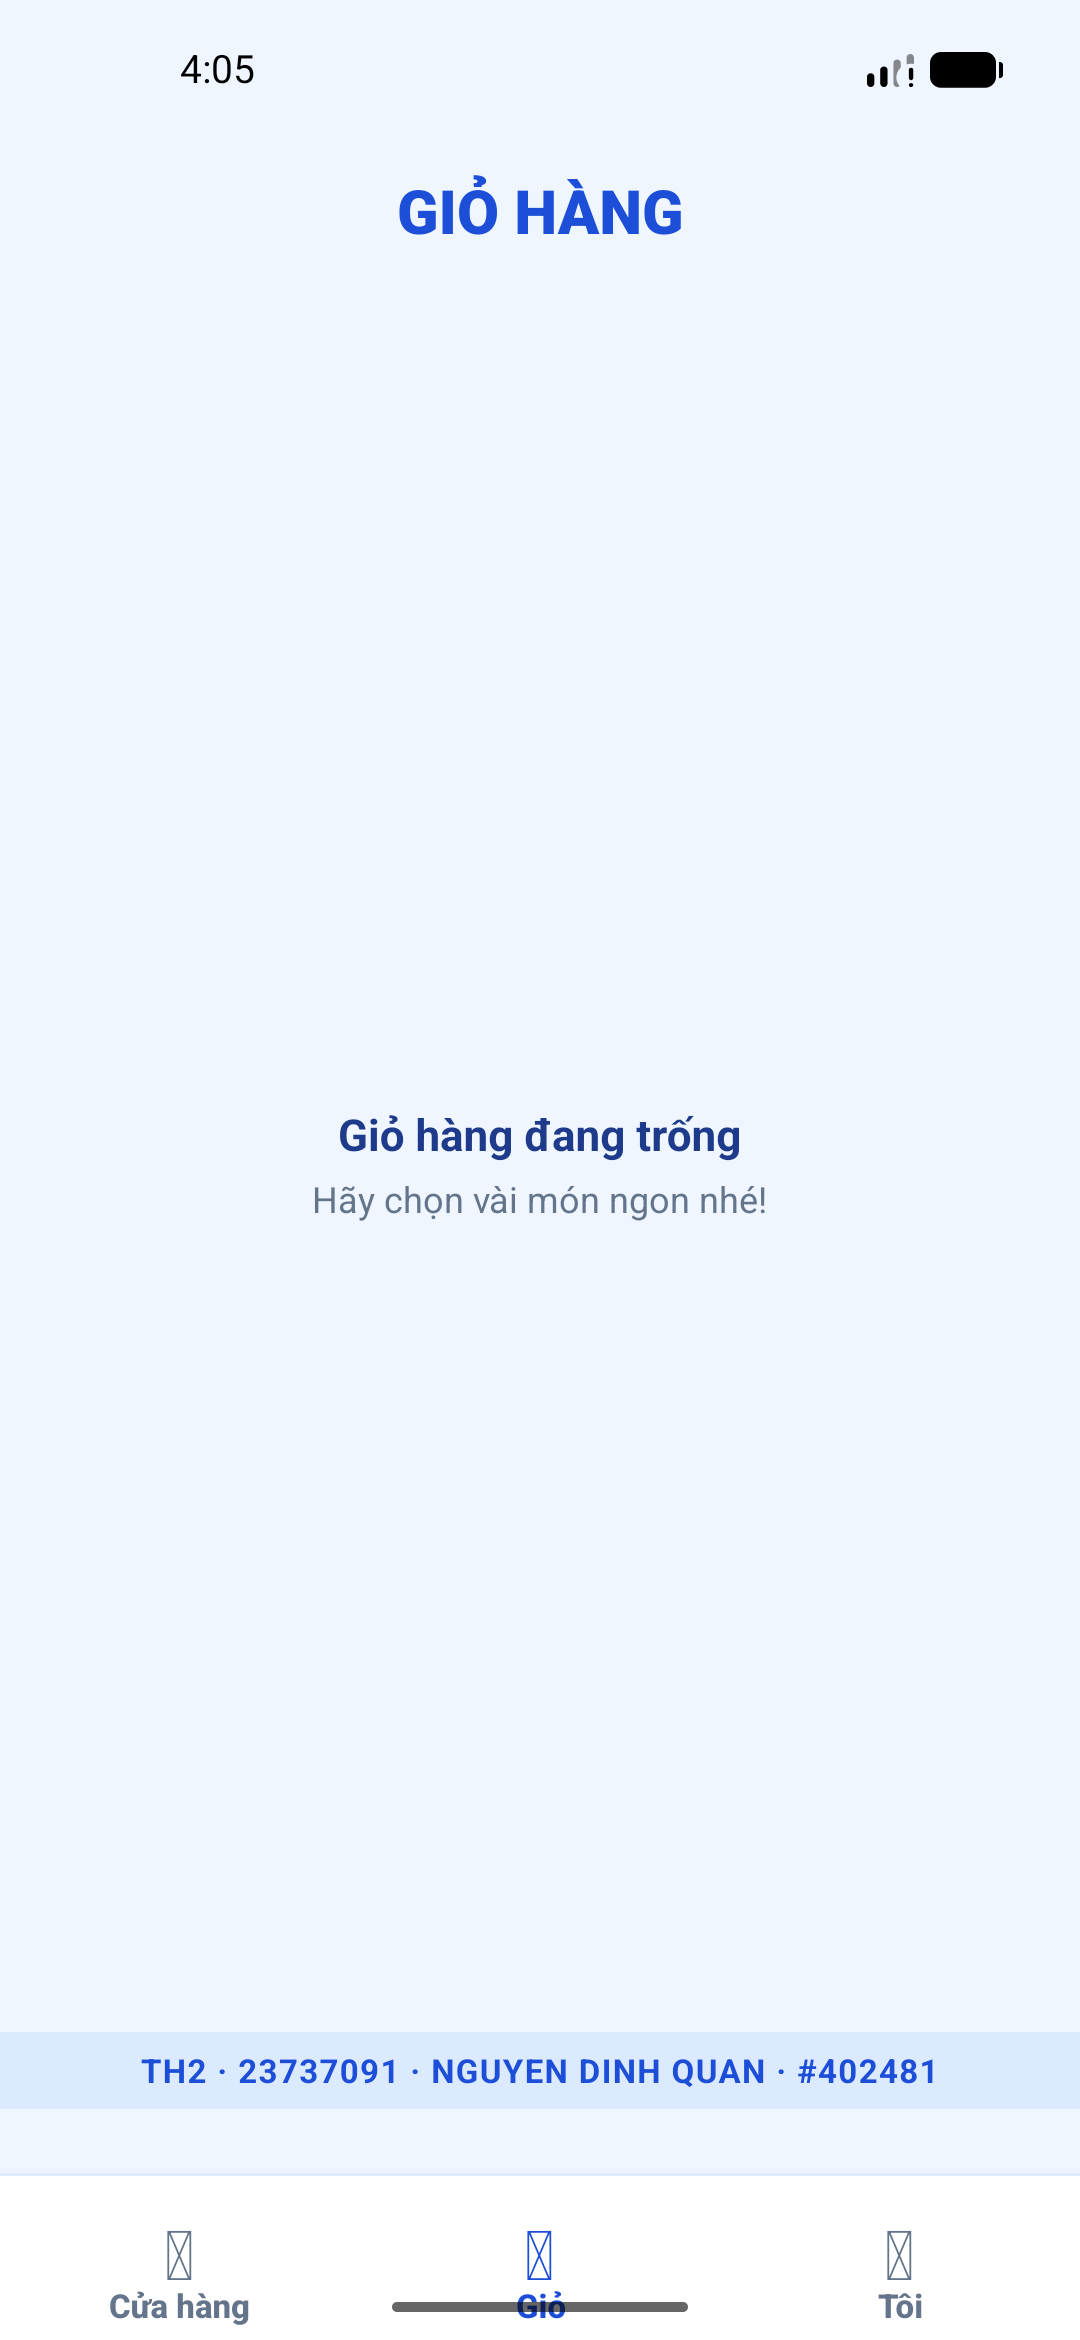
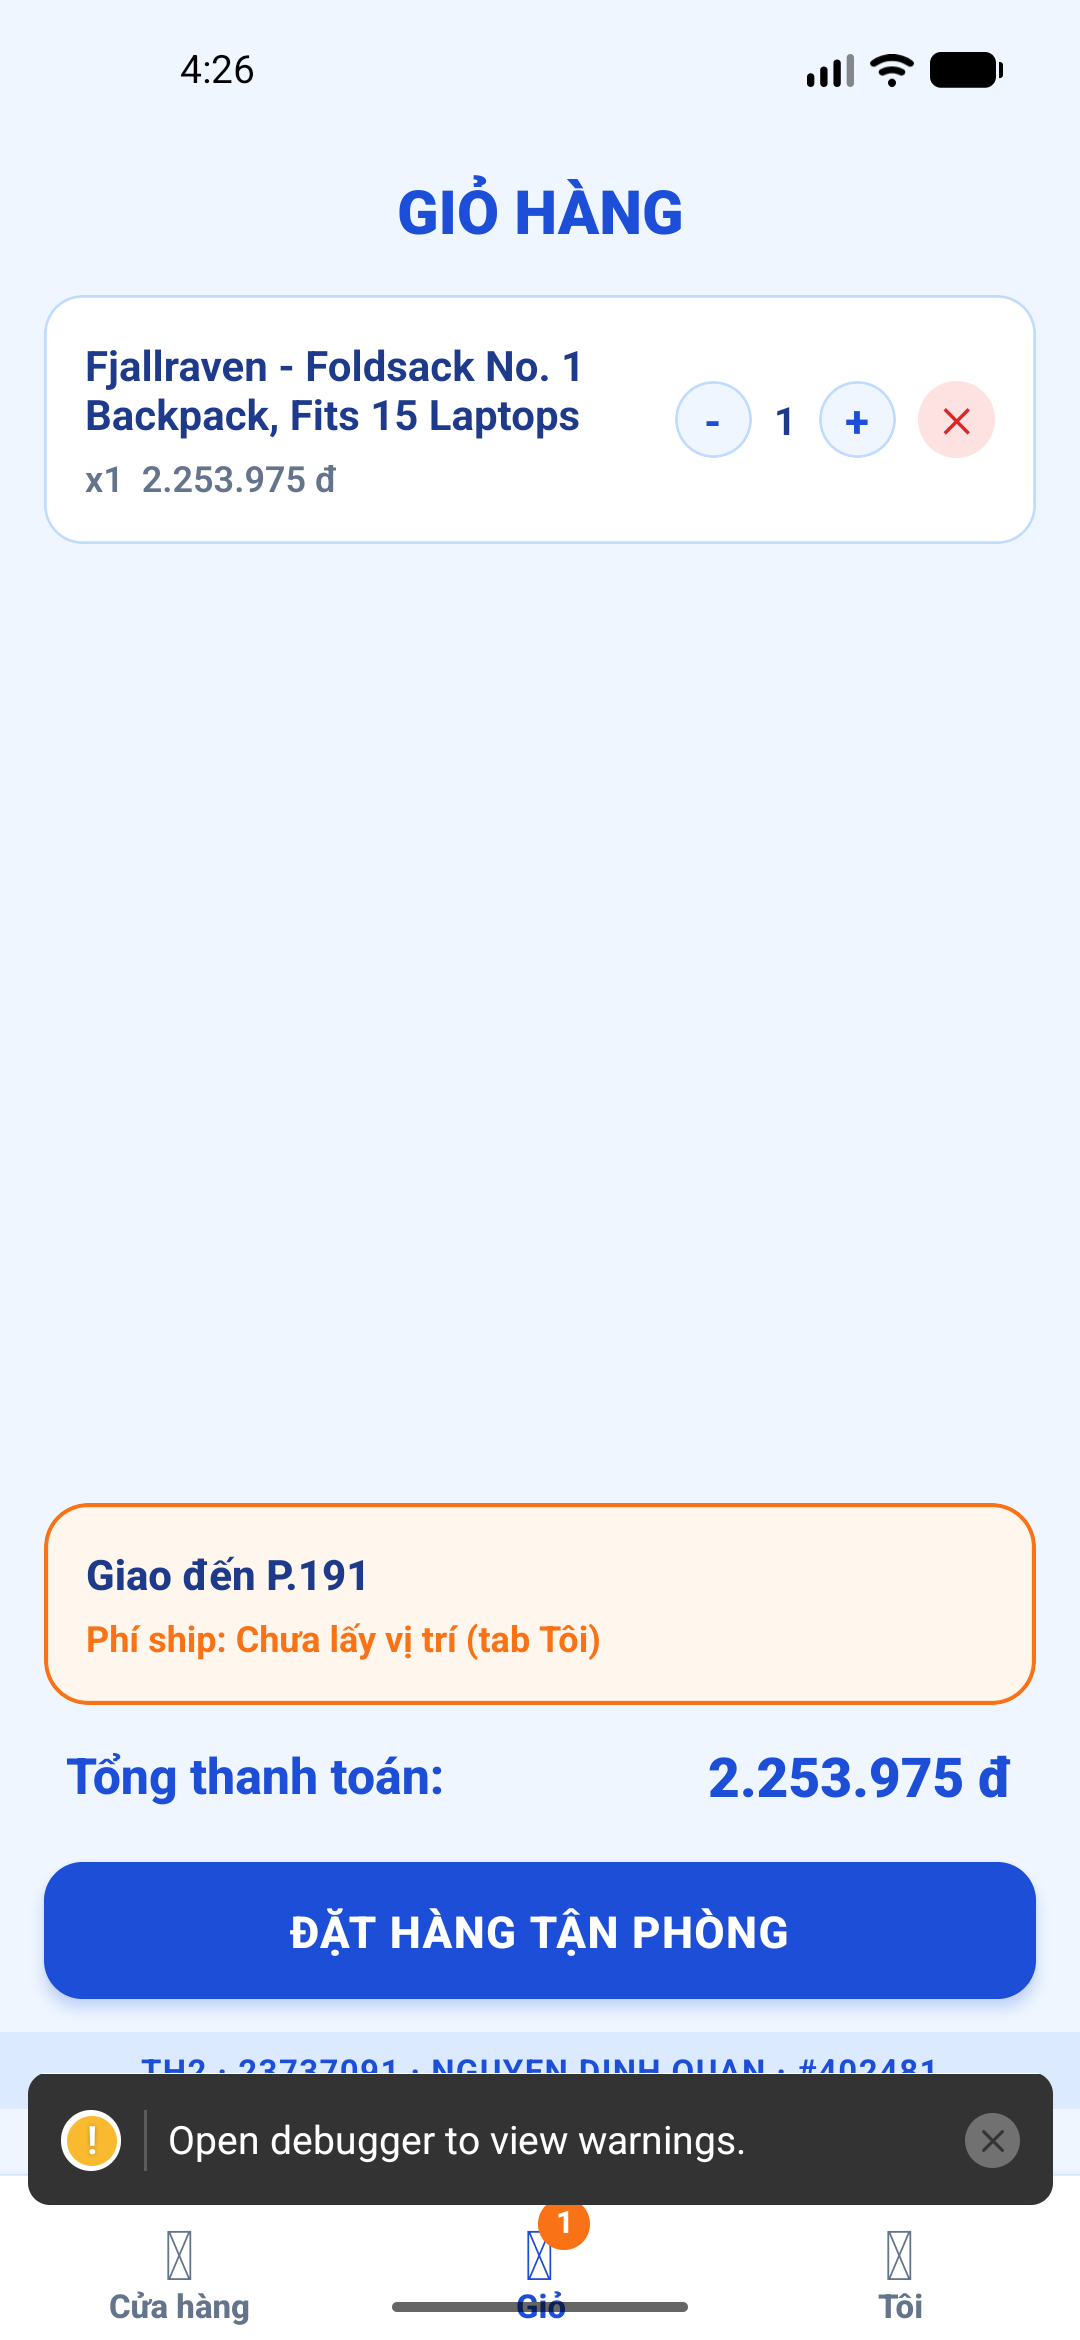
23737091 TH2: Cap nhat fakestoreapi va xu ly trang thai loi mang tren HomeScreen

diff --git a/src/screens/HomeScreen.tsx b/src/screens/HomeScreen.tsx
@@ -35,13 +35,17 @@ export const HomeScreen = ({ navigation }: any) => {
         data: products,
         isLoading,
         isError,
+        error,
         refetch,
         isRefetching,
     } = useQuery<Product[]>({
         queryKey: ['products'],
         queryFn: getProducts,
         staleTime: STALE_TIME_MS,
+        retry: 1,
     });
+
+    const hasError = isError || (!!error && !isRefetching);
 
     const filteredProducts = useMemo(() => {
         if (!products) return [];
@@ -91,7 +95,7 @@ export const HomeScreen = ({ navigation }: any) => {
                         <ActivityIndicator size="large" color={COLORS.primary} />
                         <Text style={styles.loadingText}>Đang tải món...</Text>
                     </View>
-                ) : isError ? (
+                ) : hasError ? (
                     <View style={styles.centerContainer}>
                         <Text style={styles.errorMssv}>{STUDENT.mssv}</Text>
                         <Text style={styles.errorText}>Không tải được dữ liệu món.</Text>
@@ -104,6 +108,7 @@ export const HomeScreen = ({ navigation }: any) => {
                         <FlashList
                             data={filteredProducts}
                             numColumns={2}
+                            {...({ estimatedItemSize: 220 } as any)}
                             keyExtractor={(item: Product) => `${STUDENT.mssv}-${item.id}`}
                             onRefresh={refetch}
                             refreshing={isRefetching}

diff --git a/src/services/productApi.ts b/src/services/productApi.ts
@@ -54,13 +54,15 @@ const FALLBACK_PRODUCTS: Product[] = [
 ];
 
 export const getProducts = async (): Promise<Product[]> => {
-    try {
-        const response = await apiClient.get('/products');
-        if (Array.isArray(response.data) && response.data.length > 0) {
-            return response.data;
-        }
-    } catch (e) {
-        console.warn('API call failed, using fallback products:', e);
+    const response = await apiClient.get('/products?limit=12');
+    if (Array.isArray(response.data)) {
+        return response.data.map((item: any) => ({
+            id: String(item.id),
+            name: item.title || item.name || 'Món KTX',
+            price: Number(item.price) || 20,
+            image: item.image || '',
+            description: item.description || '',
+        }));
     }
-    return FALLBACK_PRODUCTS;
+    throw new Error('Dữ liệu không hợp lệ');
 };

diff --git a/src/services/apiClient.ts b/src/services/apiClient.ts
@@ -2,7 +2,7 @@ import axios, { InternalAxiosRequestConfig } from 'axios';
 import { STUDENT } from '../constants/student';
 
 export const apiClient = axios.create({
-    baseURL: 'https://651c36b33513a2260b45070f.mockapi.io/api/v1',
+    baseURL: 'https://fakestoreapi.com',
     timeout: 10000,
 });
 
